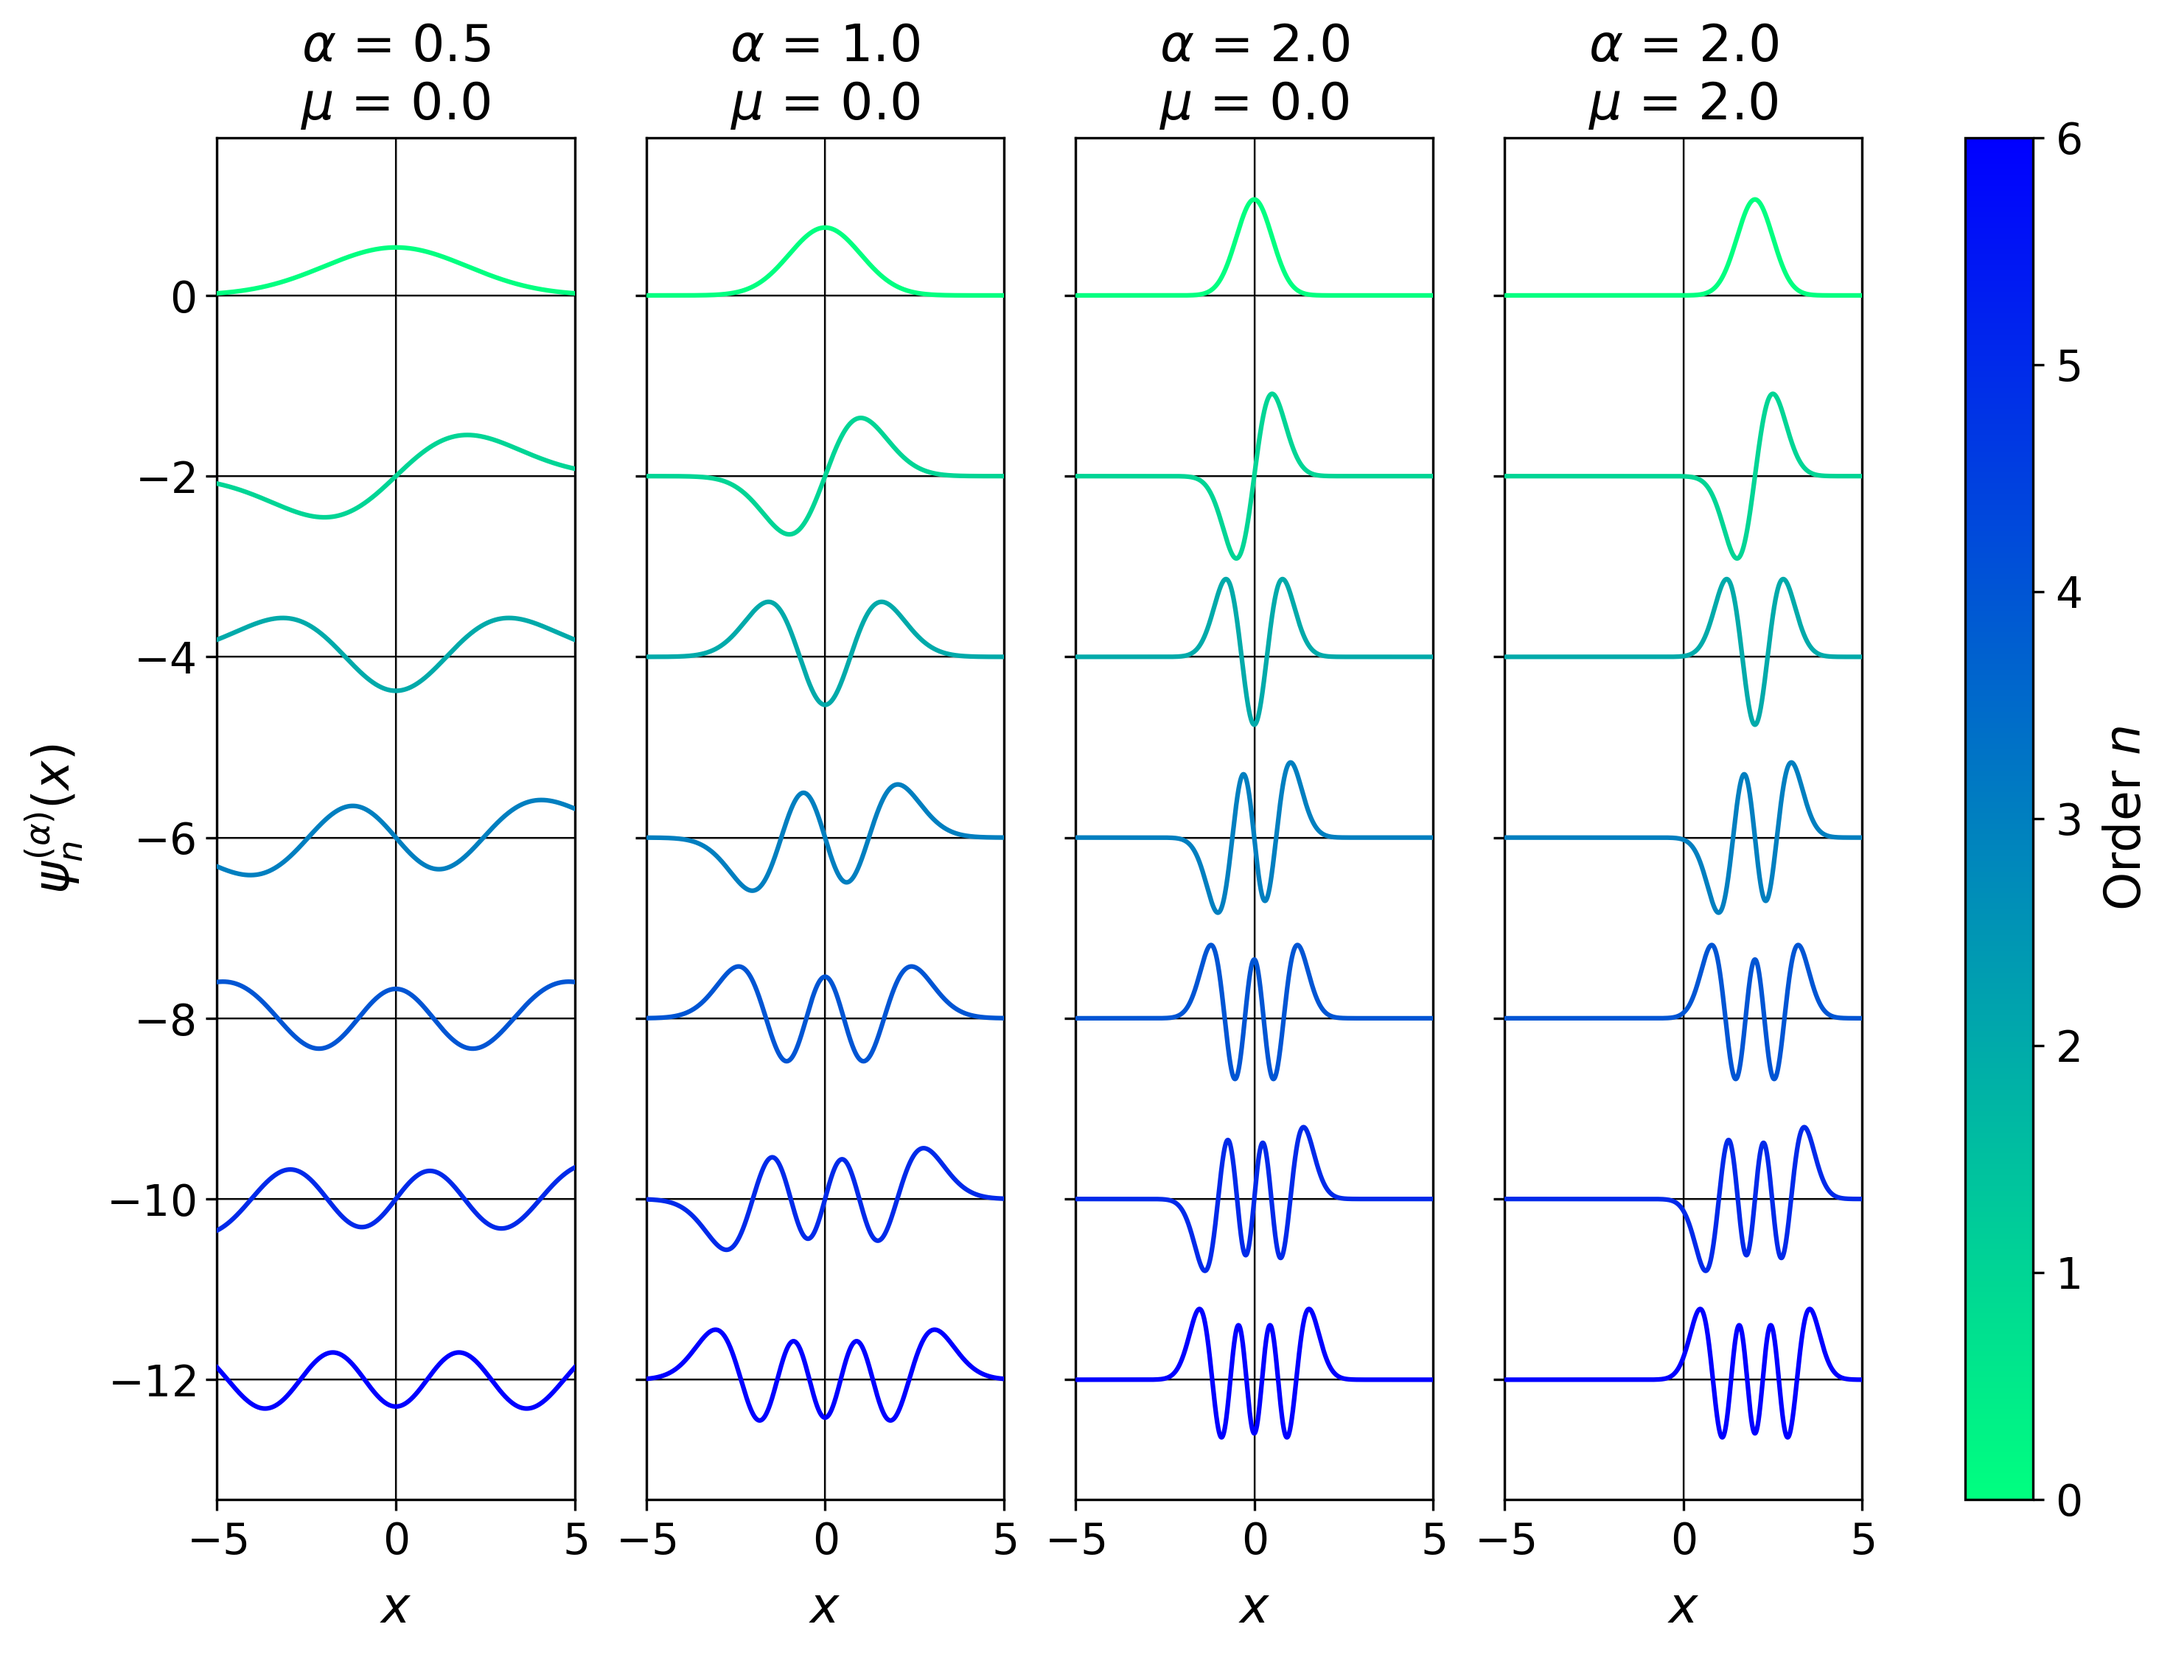
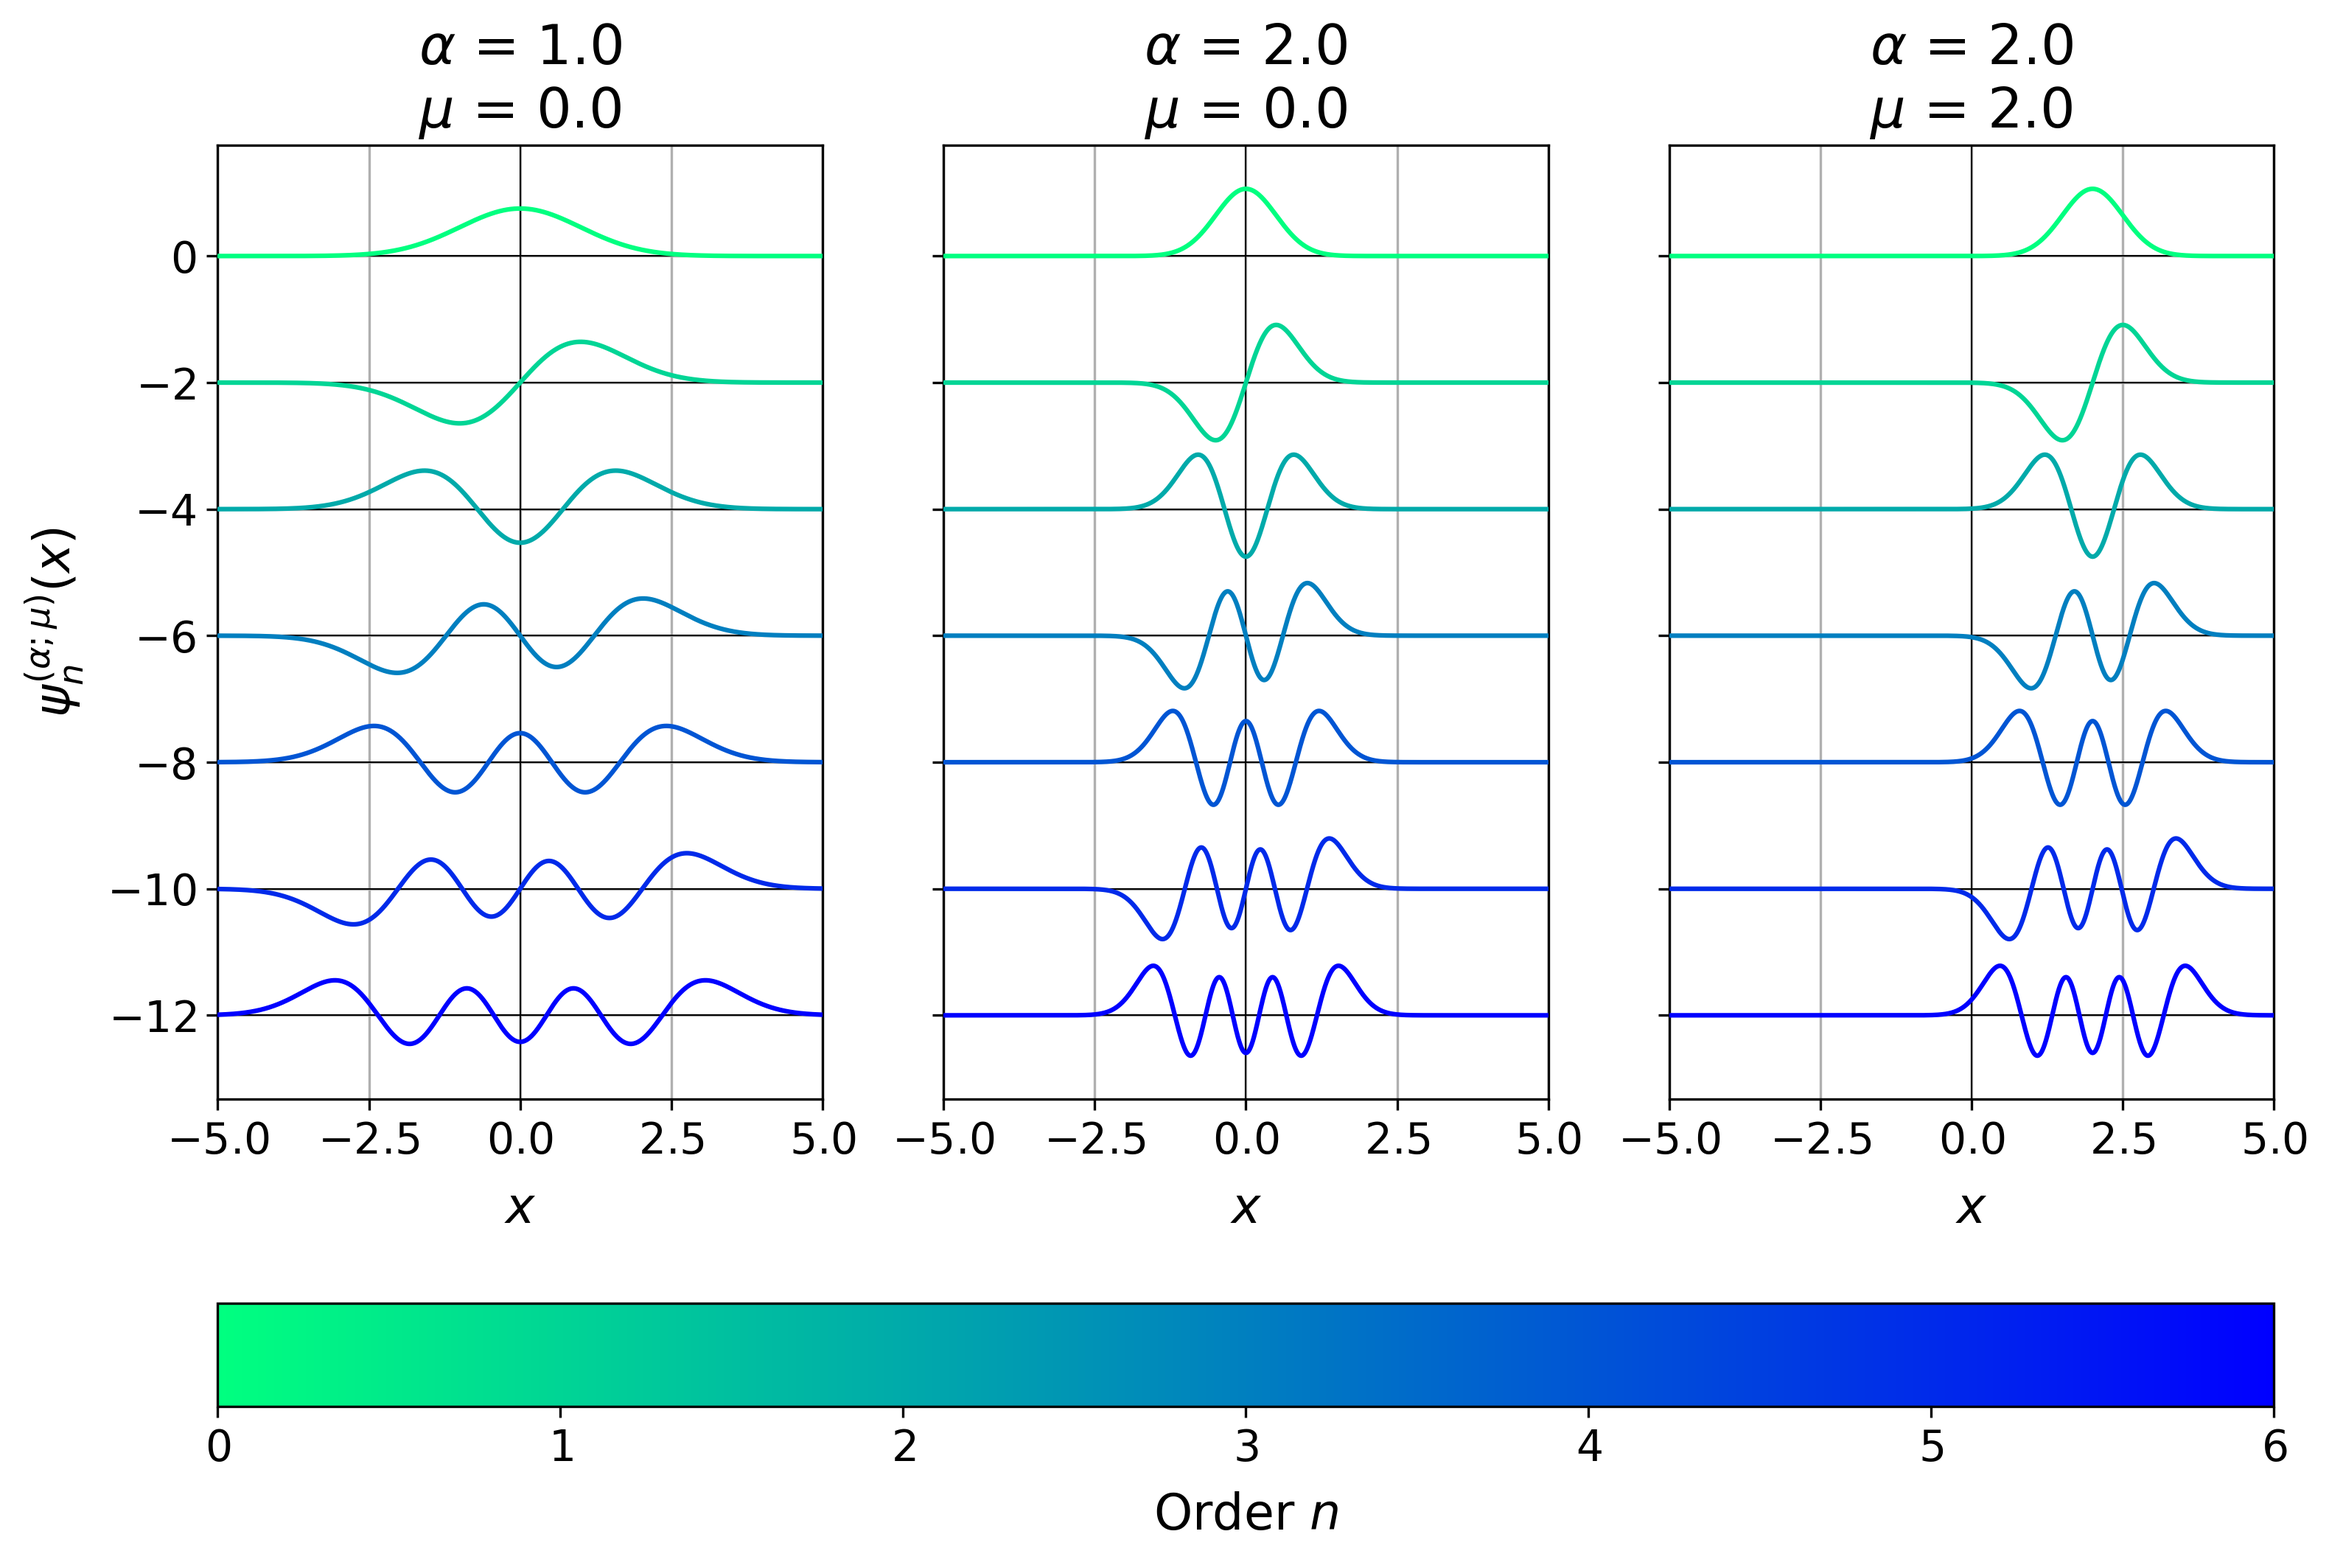
DOC: - made example plots 01 and 02 for Hermite functions more visually appealing/less overwhelming

diff --git a/examples/02_hermite_function_stability.py b/examples/02_hermite_function_stability.py
@@ -31,7 +31,7 @@ ORDERS = [100, 200, 300, 500, 1_000, 2_000]
 COLORS = ["red", "#FF8000", "#00CCCC", "blue", "purple", "#FF007F"]
 SPECIAL_COLOR = "#00CC00"
 # the offset between the individual Hermite functions
-OFFSET = -0.75
+OFFSET = -0.5
 
 # the path where to store the plot and its resolution
 PLOT_FILEPATH = "../docs/hermite_functions/DilatedHermiteFunctions_Stability.png"
@@ -80,7 +80,7 @@ if __name__ == "__main__":
         )
 
     # the title, grid, labels, and ticks are set
-    psi_label = r"$\psi_{n}^{\left(" + f"{ALPHA:.1f}" + r"\right)}\left(x\right)$"
+    psi_label = r"$\psi_{n}^{\left(" + f"{ALPHA:.1f};0.0" + r"\right)}\left(x\right)$"
     ax.set_title("Dilated Hermite Functions " + psi_label)
     ax.set_xlabel(r"$x$")
     ax.set_ylabel(psi_label)
@@ -89,7 +89,8 @@ if __name__ == "__main__":
     # finally, a legend is added
     ax.legend(
         ncol=2,
-        loc="upper left",
+        loc=8,
+        bbox_to_anchor=(0.175, 0.74),
     )
 
     # the plot is saved

diff --git a/examples/01_hermite_functions.py b/examples/01_hermite_functions.py
@@ -24,7 +24,7 @@ X_TO = 5.0
 NUM_X = 10_001
 
 # the scaling factors alpha and centers mu to use
-ALPHAS_AND_MUS = [(0.5, 0.0), (1.0, 0.0), (2.0, 0.0), (2.0, 2.0)]
+ALPHAS_AND_MUS = [(1.0, 0.0), (2.0, 0.0), (2.0, 2.0)]
 # the orders of the Hermite functions to plot
 ORDERS = 6
 # the offset between the individual Hermite functions
@@ -90,7 +90,7 @@ if __name__ == "__main__":
         # for the first plot, a y-label and a legend are added
         if idx_alpha == 0:
             ax[idx_alpha].set_ylabel(  # type: ignore
-                r"$\psi_{n}^{\left(\alpha\right)}\left(x\right)$",
+                r"$\psi_{n}^{\left(\alpha;\mu\right)}\left(x\right)$",
             )
 
     # a colorbar is added for the orders
@@ -102,6 +102,7 @@ if __name__ == "__main__":
         sm,
         ax=ax.ravel().tolist(),  # type: ignore
         label=r"Order $n$",
+        orientation="horizontal",
     )
 
     # the plot is saved ...
